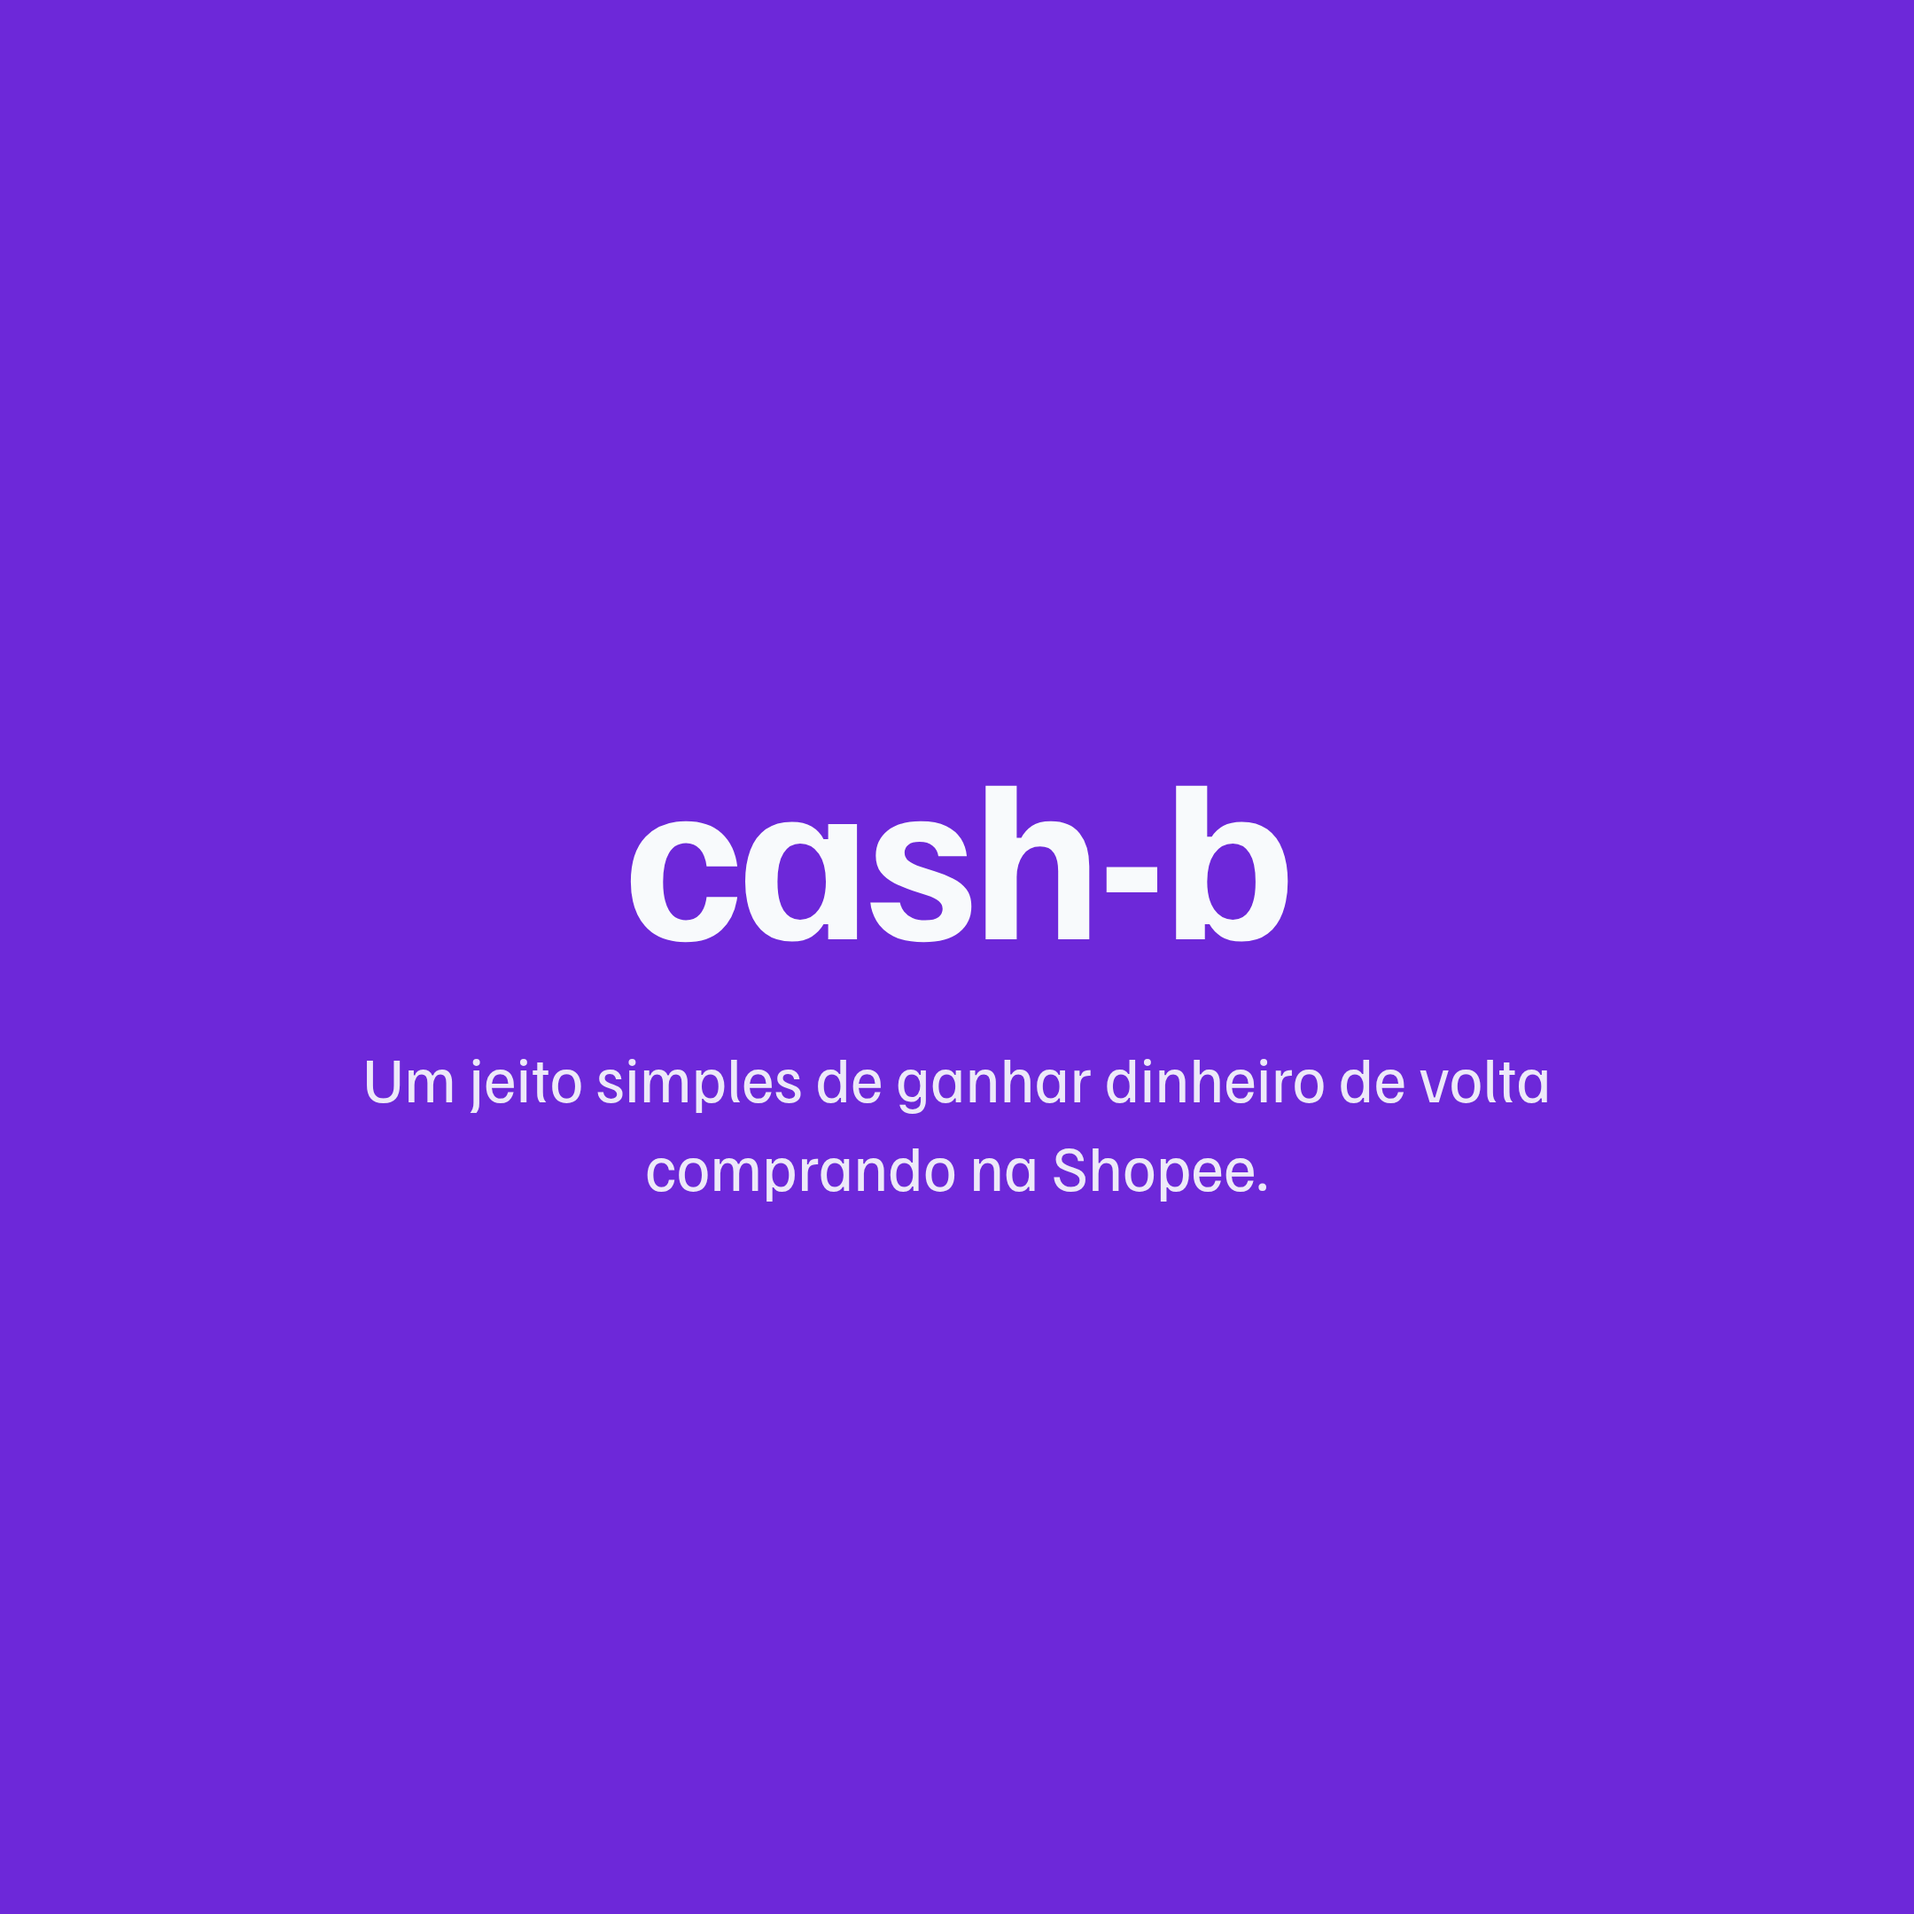
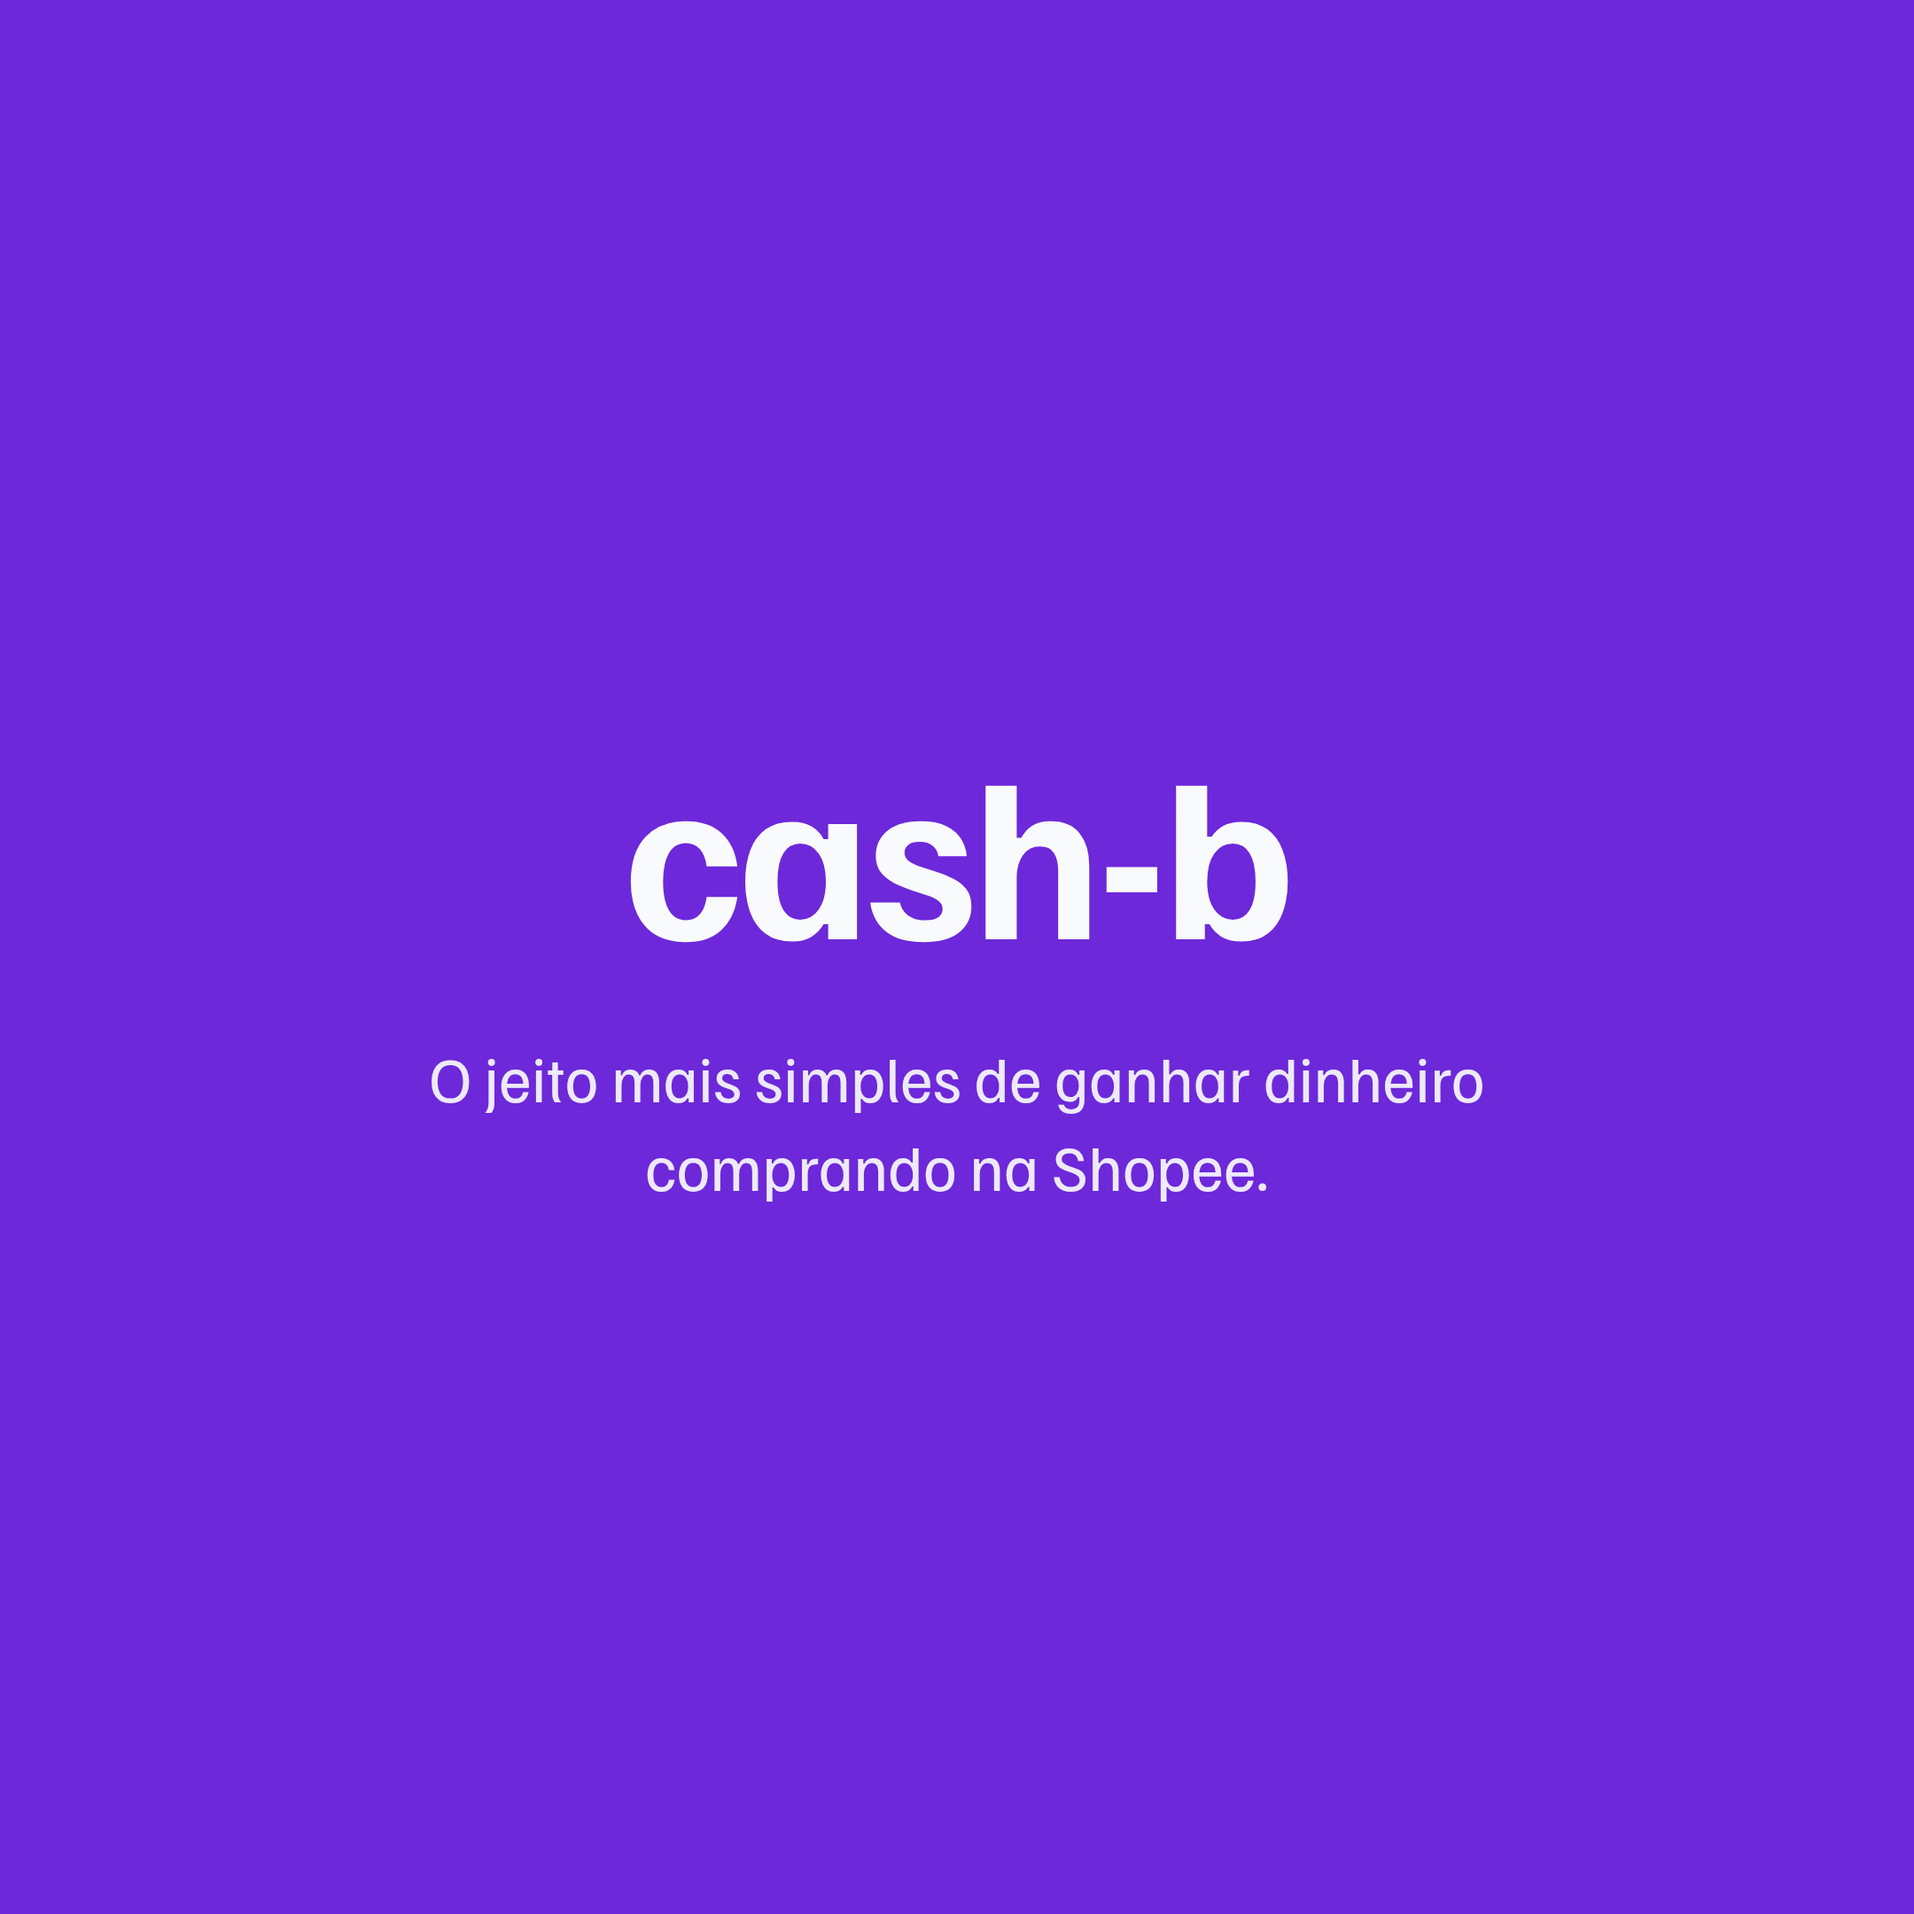
Ajusta o texto do post 01 de semeadura
"Um jeito simples de ganhar dinheiro de volta comprando na Shopee." ->
"O jeito mais simples de ganhar dinheiro comprando na Shopee."

Claude-Session: https://claude.ai/code/session_017WZWLEiMQvHUst5KUYseHY

Changed region(s): [[0.1861, 0.5583, 0.8065, 0.5894]]

diff --git a/marketing/instagram/gerar_posts_semeadura.py b/marketing/instagram/gerar_posts_semeadura.py
@@ -72,7 +72,7 @@ render("cover", f"""
 <div class="canvas" style="background:{COLORS['brand']}; color:{COLORS['paper']}; justify-content:center; align-items:center; text-align:center;">
     <div style="font-size:130px; font-weight:700; letter-spacing:-0.02em;">cash-b</div>
     <div style="font-size:36px; margin-top:24px; max-width:760px; color:{COLORS['paper']}; opacity:0.92; line-height:1.4;">
-        Um jeito simples de ganhar dinheiro de volta comprando na Shopee.
+        O jeito mais simples de ganhar dinheiro comprando na Shopee.
     </div>
 </div>
 """, "01-o-que-e-cashb.png")
